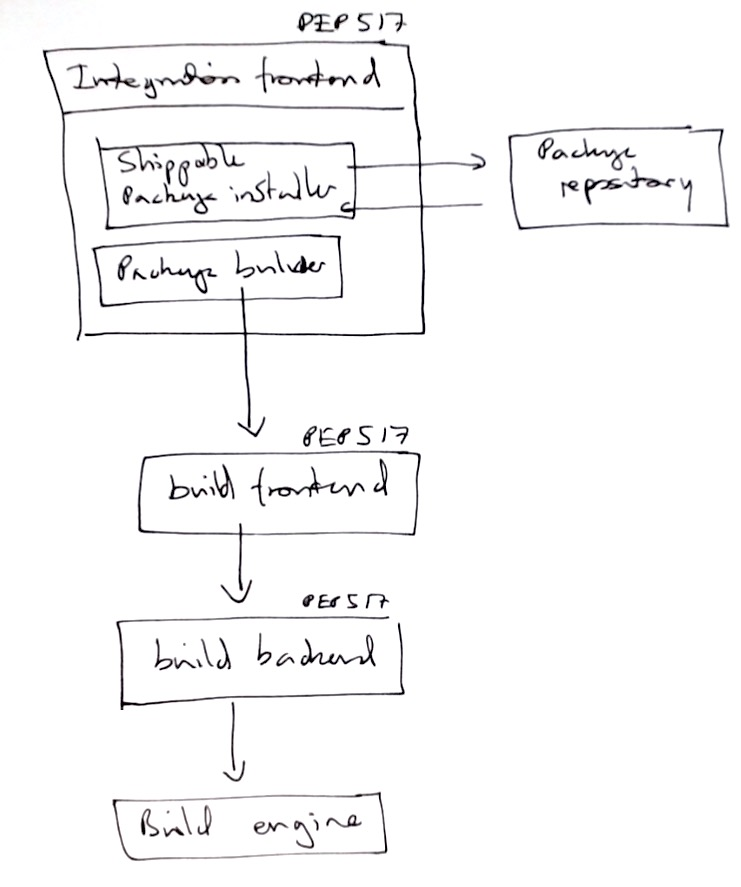
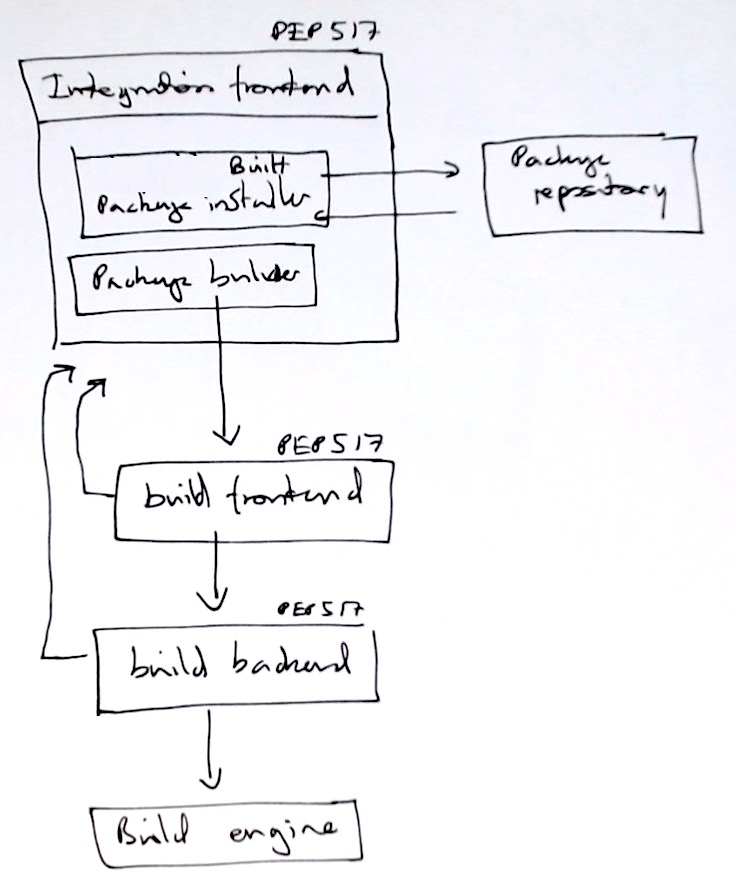
Rephrase shippable to "built"

Changed region(s): [[0.0, 0.0, 1.0, 0.9741], [0.0312, 0.4262, 0.0625, 0.5175]]

diff --git a/farewell_distutils.md b/farewell_distutils.md
@@ -325,31 +325,31 @@ See also [PEP 621](https://www.python.org/dev/peps/pep-0621/) for more specifica
 ## On the integration frontend
 
 The *integration frontend* as defined in PEP517 has two roles, that we want to
-distinguish.   First we define a new term -- a *shippable package*.  A
-shippable package is a package that needs no or minimal further work to install
-into the Python PATH.  Wheels are examples of shippable packages, because they
+distinguish.   First we define a new term -- a *built package*.  A
+built package is a package that needs no or minimal further work to install
+into the Python PATH.  Wheels are examples of built packages, because they
 contain the distribution tree, with all code compiled, as are Conda packages.
 
-Sdists and other source trees are not shippable packages, because the installer
+Sdists and other source trees are not built packages, because the installer
 has to work out what extra build steps need to be done, and do them, before
 installing the packages.  We call these *source packages*.  In the case of a pure-Python package, this work is very simple, but it is still work.
 
 With that distinction, we refine the tasks that an *integration frontend* has to do.
 
-* *Shippable package installer*.  In this role, the integration frontend
-  accepts a list of package requirements, or *shippable package* filenames,
+* *Built package installer*.  In this role, the integration frontend
+  accepts a list of package requirements, or *built package* filenames,
   *resolves* the resulting list of packages that have to be installed,
   including package *dependencies*, then, as necessary *downloads* and
   *installs* the resulting set of packages.   This is how `conda install`
-  works, because `conda` packages are always shippable.  Pip performs only this
+  works, because `conda` packages are always built.  Pip performs only this
   role only when all the resulting packages are wheels.
 * *Package builder*.  Integration frontends may be asked to install from a
   source tree, or find that they can only get an sdist for a particular
   dependency.  In this case, the integration frontend also functions as, or
   calls into, a *build frontend*.
 
-With this distinction, we see that Conda is a shippable package installer, and
-not an integration frontend.  Pip is shippable package installer and a package
+With this distinction, we see that Conda is a built package installer, and
+not an integration frontend.  Pip is a built package installer and a package
 builder, and therefore, is an integration frontend.
 
 See the sketchy diagram below for a simple representation of the various parts
@@ -360,7 +360,7 @@ PEP517 defines, and that we distinguish here.
 Notice that PEP517 specifies that the build frontend can depend on other Python
 packages, and, in particular, on the build backend.  Then, the build backend
 may install packages that the build depends on.  This means that the build
-frontend and the build backend much have access to a shippable package
+frontend and the build backend much have access to a built package
 installer, or a full integration frontend.  Worse than that, the user will
 probably not want these packages to appear in their current Python environment,
 just because they have run the build step, so the integration frontend also
